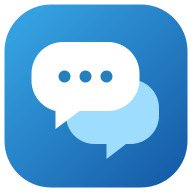
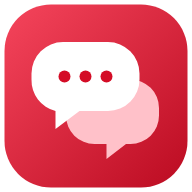
Adopt Rocket.Chat design language with message reactions

diff --git a/public/app.js b/public/app.js
@@ -1,4 +1,4 @@
-import {createRoleUI,providerLabel,renderRoleJob} from './roles-ui.js?v=workspace-15';
+import {createRoleUI,providerLabel,renderRoleJob} from './roles-ui.js?v=workspace-28';
 const $=id=>document.getElementById(id);let me,room=null,rooms=[],pending=null,pendingSticker=null,controller,seen=new Set();
 const compactComposer=matchMedia('(max-width:600px)');
 const themeMode = $('themeMode');
@@ -448,6 +448,77 @@ function messageName(message) {
   return message.roleReply?.roleName || message.roleSender?.roleName || message.sender;
 }
 
+const REACTION_EMOJIS = ['👍','👎','❤','😂','😮','😢','🎉','🚀','👀','🔥','✅','❌','🙏','💯','🤔','😅','🫡','💪','☕','⚡'];
+const reactionPicker = el('dialog', 'reaction-picker');
+reactionPicker.setAttribute('aria-label', '选择回应表情');
+document.body.append(reactionPicker);
+reactionPicker.addEventListener('click', event => {
+  if (event.target === reactionPicker) reactionPicker.close();
+});
+
+function reactionChip(group, message) {
+  const mine = group.members.includes(me.id);
+  const chip = el('button', 'reaction-chip' + (mine ? ' mine' : ''));
+  chip.type = 'button';
+  chip.setAttribute('aria-label', (mine ? '取消回应 ' : '回应 ') + group.emoji + '，已有 ' + group.count + ' 人');
+  chip.append(el('span', 'reaction-emoji', group.emoji), el('span', 'reaction-count', String(group.count)));
+  chip.onclick = () => toggleReaction(message, group.emoji);
+  return chip;
+}
+
+function renderReactions(row, message) {
+  let holder = row.querySelector('.reactions-row');
+  const groups = message.reactions || [];
+  if (!groups.length) {
+    holder?.remove();
+    return;
+  }
+  if (!holder) {
+    holder = el('div', 'reactions-row');
+    row.querySelector('.message-content').append(holder);
+  }
+  holder.replaceChildren(...groups.map(group => reactionChip(group, message)));
+}
+
+function refreshReactions(messageId, reactions) {
+  const row = $('messages').querySelector('[data-message-id="' + Number(messageId) + '"]');
+  if (!row) return;
+  const remembered = quoteMessages.get(Number(messageId));
+  if (remembered) remembered.reactions = reactions;
+  renderReactions(row, {id:messageId, reactions});
+}
+
+async function toggleReaction(message, emoji) {
+  try {
+    const result = await post('/api/messages/' + message.id + '/reactions', {emoji});
+    refreshReactions(message.id, result.reactions);
+  } catch (error) {
+    $('notice').textContent = error.message;
+  }
+}
+
+function openReactionPicker(message, anchor) {
+  reactionPicker.replaceChildren(...REACTION_EMOJIS.map(emoji => {
+    const button = el('button', 'reaction-choice', emoji);
+    button.type = 'button';
+    button.setAttribute('aria-label', '回应 ' + emoji);
+    button.onclick = () => {
+      reactionPicker.close();
+      toggleReaction(message, emoji);
+    };
+    return button;
+  }));
+  reactionPicker.style.removeProperty('left');
+  reactionPicker.style.removeProperty('top');
+  if (!reactionPicker.open) reactionPicker.showModal();
+  if (!compactComposer.matches && anchor) {
+    const bounds = reactionPicker.getBoundingClientRect();
+    const rect = anchor.getBoundingClientRect();
+    reactionPicker.style.left = Math.max(8, Math.min(rect.left, innerWidth - bounds.width - 8)) + 'px';
+    reactionPicker.style.top = Math.max(8, Math.min(rect.bottom + 6, innerHeight - bounds.height - 8)) + 'px';
+  }
+}
+
 async function copyMessage(text) {
   if (navigator.clipboard && window.isSecureContext) {
     await navigator.clipboard.writeText(text);
@@ -468,6 +539,18 @@ function showMessageMenu(message, position) {
     el('p', '', message.text || message.assetName || message.fileName || '消息'));
   messageMenu.replaceChildren(heading);
   messageMenu.setAttribute('aria-label', '消息操作');
+  const quickReactions = el('div', 'message-menu-reactions');
+  for (const emoji of REACTION_EMOJIS.slice(0, 10)) {
+    const button = el('button', 'reaction-choice', emoji);
+    button.type = 'button';
+    button.setAttribute('aria-label', '回应 ' + emoji);
+    button.onclick = () => {
+      messageMenu.close();
+      toggleReaction(message, emoji);
+    };
+    quickReactions.append(button);
+  }
+  messageMenu.append(quickReactions);
   const actions = [
     ['引用', '“', () => chooseReply(message)],
     ...(message.text ? [
@@ -882,6 +965,7 @@ function appendMessage(message, updateTasks = true) {
   content.append(meta, bubble);
   appendQuote(content, message);
   row.append(messageAvatar(message, speaker), content);
+  renderReactions(row, message);
   renderAuditStatus(row, message.id, message.routeStatus);
   row.dataset.messageId = message.id;
   row.dataset.searchText = [message.text, message.fileName, speaker?.roleName, message.sender].filter(Boolean).join(' ').toLocaleLowerCase();
@@ -899,8 +983,54 @@ function appendMessage(message, updateTasks = true) {
     content.append(status);
   }
   groupMessage(row, message, speaker);
+  appendDayDivider(message);
+  addMessageTools(row, message);
   $('messages').append(row);
   if (updateTasks && jobs.length) renderTaskSummary();
+}
+
+let lastRenderedDay = null;
+function dayLabel(date) {
+  const now = new Date();
+  const today = now.toDateString() === date.toDateString();
+  const yesterday = new Date(now.getFullYear(), now.getMonth(), now.getDate() - 1).toDateString() === date.toDateString();
+  if (today) return '今天';
+  if (yesterday) return '昨天';
+  return date.toLocaleDateString('zh-CN', {month: 'long', day: 'numeric', year: date.getFullYear() === now.getFullYear() ? undefined : 'numeric'});
+}
+function appendDayDivider(message) {
+  const date = new Date(message.created);
+  const key = date.toDateString();
+  if (lastRenderedDay !== key) {
+    lastRenderedDay = key;
+    $('messages').append(el('div', 'day', dayLabel(date)));
+  }
+}
+
+function addMessageTools(row, message) {
+  const tools = el('div', 'message-tools');
+  tools.setAttribute('role', 'toolbar');
+  tools.setAttribute('aria-label', '消息操作');
+  const react = el('button', '', '☺');
+  react.type = 'button';
+  react.title = '添加回应';
+  react.setAttribute('aria-label', '添加回应');
+  react.onclick = event => openReactionPicker(message, event.currentTarget);
+  const reply = el('button', '', '↩');
+  reply.type = 'button';
+  reply.title = '引用回复';
+  reply.setAttribute('aria-label', '引用回复');
+  reply.onclick = () => chooseReply(message);
+  const more = el('button', '', '⋯');
+  more.type = 'button';
+  more.title = '更多操作';
+  more.setAttribute('aria-label', '更多操作');
+  more.onclick = event => {
+    const rect = event.currentTarget.getBoundingClientRect();
+    showMessageMenu(message, {x:rect.left, y:rect.bottom + 6});
+  };
+  tools.append(react, reply, more);
+  row.append(tools);
 }
 let selection = 0;
 async function selectRoom(id) {
@@ -938,6 +1068,7 @@ async function selectRoom(id) {
     clearBlobs();
     seen = new Set();
     $('messages').replaceChildren(el('div', 'empty', id ? '还没有消息，打个招呼吧' : '请先创建群聊'));
+    lastRenderedDay = null;
     data.forEach(message => appendMessage(message, false));
     renderTaskSummary();
     scrollLatest();
@@ -952,7 +1083,7 @@ function renderEfforts(){const role=availableRoles.find(r=>r.id===$('roomRoleSel
 async function refreshRoomRoles(){if(!room){$('roomRoleCount').textContent='0';$('roomRoles').replaceChildren(el('p','member-empty','请选择群聊'));$('roomRoleSelect').replaceChildren();$('addRoomRole').disabled=true;return;}const target=room;const [all,joined,caps]=await Promise.all([get('/api/roles'),get('/api/rooms/'+encodeURIComponent(target)+'/roles'),get('/api/role-capabilities')]);if(room!==target)return;availableRoles=all;roomRoles=joined;capabilities=caps;const select=$('roomRoleSelect'),previous=select.value;select.replaceChildren();for(const r of all){const option=el('option','',r.name+' · '+providerLabel(r.provider)+' · '+r.id.slice(-6));option.value=r.id;select.append(option);}if(all.some(r=>r.id===previous))select.value=previous;renderEfforts();$('addRoomRole').disabled=!all.length;$('memberPanelRoom').textContent=$('roomTitle').textContent;$('roomRoleCount').textContent=joined.length;$('roomRoles').replaceChildren();if(!joined.length)$('roomRoles').append(el('p','member-empty','本群还没有角色'));for(const r of joined){const row=el('div','member'),label=el('div','member-label');label.append(el('span','',r.name),el('small','',providerLabel(r.provider)+' · '+(r.effort==='default'?'宿主默认':r.effort)));const remove=el('button','','移出');remove.type='button';remove.onclick=async()=>{try{await api('/api/rooms/'+encodeURIComponent(target)+'/roles/'+encodeURIComponent(r.id),{method:'DELETE'});await Promise.all([refreshRoomRoles(),roleUI.refresh()]);}catch(e){$('notice').textContent=e.message;}};remove.className='remove-room-role';const avatarId='role:'+r.id;row.append(memberAvatar(avatarId,r.name,true),label,avatarEditButton(avatarId,r.name),remove);$('roomRoles').append(row);}}
 $('roomRoleSelect').onchange=renderEfforts;
 $('addRoomRole').onclick=async()=>{if(!room||!$('roomRoleSelect').value)return;try{await post('/api/rooms/'+encodeURIComponent(room)+'/roles',{roleId:$('roomRoleSelect').value,effort:$('roomEffort').value});await Promise.all([refreshRoomRoles(),roleUI.refresh()]);}catch(e){$('notice').textContent=e.message;}};
-async function connect(){controller?.abort();controller=new AbortController();const signal=controller.signal;while(!signal.aborted){try{const r=await api('/api/events',{signal});$('connection').textContent='实时连接';$('connection').dataset.state='connected';const reader=r.body.getReader(),decoder=new TextDecoder();let buffer='';while(true){const {value,done}=await reader.read();if(done)break;buffer+=decoder.decode(value,{stream:true});let idx;while((idx=buffer.indexOf('\n\n'))>=0){const part=buffer.slice(0,idx);buffer=buffer.slice(idx+2);if(!part.startsWith('data: '))continue;const e=JSON.parse(part.slice(6));if(e.type==='role-avatar')setRoleAvatar(e.roleId,e.avatar);if(e.type==='rooms'){await reloadRooms();if(room&&!rooms.some(entry=>entry.id===room))await selectRoom(rooms[0]?.id||null);}if(e.type==='members'){me=await get('/api/me');$('myName').textContent=me.name;await refreshMembers();if(room)await selectRoom(room);}if(e.type==='roles'||e.type==='room-roles'&&e.room===room){await roleUI.refresh();if(!$('memberPanel').hidden)await refreshRoomRoles();}if(e.type==='role-sources'&&!$('memberPanel').hidden)await refreshRoomRoles();if(e.type==='role-job'){recordActiveRole(e.job);const row=$('messages').querySelector('[data-message-id="'+Number(e.job.sourceMessage??e.job.message)+'"]');if(row){let node=row.querySelector('[data-role-job-id="'+Number(e.job.message)+'"]');if(!node){node=el('div','role-status');node.dataset.roleJobId=e.job.message;row.querySelector('.message-content').append(node);row.dataset.roleJobCount=String(Number(row.dataset.roleJobCount||0)+1);}renderMessageJob(node,e.job);renderTaskSummary();}}if(e.type==='audit-status'&&e.room===room){const row=$('messages').querySelector('[data-message-id="'+Number(e.messageId)+'"]');if(row)renderAuditStatus(row,e.messageId,e.routeStatus);}if(e.type==='receipt'){const node=$('messages').querySelector('[data-message-id="'+Number(e.messageId)+'"] .receipts');if(node)renderReceipts(node,e.receipts);}if(e.type==='message'&&e.message.room===room){const follow=isNearLatest();appendMessage(e.message);if(follow)scrollLatest();else updateJumpLatest();if(!$('messageSearch').hidden&&$('messageQuery').value.trim())updateMessageSearch();}}}}catch(e){if(signal.aborted)return;}if(signal.aborted)return;$('connection').textContent='正在重连';delete $('connection').dataset.state;await new Promise(r=>setTimeout(r,2500));if(!signal.aborted){await roleUI.refresh().catch(()=>{});await loadRoleAvatars().catch(()=>{});await selectRoom(room);}}}
+async function connect(){controller?.abort();controller=new AbortController();const signal=controller.signal;while(!signal.aborted){try{const r=await api('/api/events',{signal});$('connection').textContent='实时连接';$('connection').dataset.state='connected';const reader=r.body.getReader(),decoder=new TextDecoder();let buffer='';while(true){const {value,done}=await reader.read();if(done)break;buffer+=decoder.decode(value,{stream:true});let idx;while((idx=buffer.indexOf('\n\n'))>=0){const part=buffer.slice(0,idx);buffer=buffer.slice(idx+2);if(!part.startsWith('data: '))continue;const e=JSON.parse(part.slice(6));if(e.type==='role-avatar')setRoleAvatar(e.roleId,e.avatar);if(e.type==='rooms'){await reloadRooms();if(room&&!rooms.some(entry=>entry.id===room))await selectRoom(rooms[0]?.id||null);}if(e.type==='members'){me=await get('/api/me');$('myName').textContent=me.name;await refreshMembers();if(room)await selectRoom(room);}if(e.type==='roles'||e.type==='room-roles'&&e.room===room){await roleUI.refresh();if(!$('memberPanel').hidden)await refreshRoomRoles();}if(e.type==='role-sources'&&!$('memberPanel').hidden)await refreshRoomRoles();if(e.type==='role-job'){recordActiveRole(e.job);const row=$('messages').querySelector('[data-message-id="'+Number(e.job.sourceMessage??e.job.message)+'"]');if(row){let node=row.querySelector('[data-role-job-id="'+Number(e.job.message)+'"]');if(!node){node=el('div','role-status');node.dataset.roleJobId=e.job.message;row.querySelector('.message-content').append(node);row.dataset.roleJobCount=String(Number(row.dataset.roleJobCount||0)+1);}renderMessageJob(node,e.job);renderTaskSummary();}}if(e.type==='audit-status'&&e.room===room){const row=$('messages').querySelector('[data-message-id="'+Number(e.messageId)+'"]');if(row)renderAuditStatus(row,e.messageId,e.routeStatus);}if(e.type==='reactions'&&e.room===room){refreshReactions(e.message,e.reactions);}if(e.type==='receipt'){const node=$('messages').querySelector('[data-message-id="'+Number(e.messageId)+'"] .receipts');if(node)renderReceipts(node,e.receipts);}if(e.type==='message'&&e.message.room===room){const follow=isNearLatest();appendMessage(e.message);if(follow)scrollLatest();else updateJumpLatest();if(!$('messageSearch').hidden&&$('messageQuery').value.trim())updateMessageSearch();}}}}catch(e){if(signal.aborted)return;}if(signal.aborted)return;$('connection').textContent='正在重连';delete $('connection').dataset.state;await new Promise(r=>setTimeout(r,2500));if(!signal.aborted){await roleUI.refresh().catch(()=>{});await loadRoleAvatars().catch(()=>{});await selectRoom(room);}}}
 async function login(){try{me=await get('/api/me');$('login').hidden=true;$('workspace').hidden=false;$('myName').textContent=me.name;await reloadRooms();await loadRoleAvatars();await selectRoom(rooms[0]?.id||null);$('manageAuditors').hidden=me.kind!=='human';await refreshMembers();connect();}catch(e){$('loginError').textContent=e.message;}}
 $('editName').onclick=()=>{$('newUserName').value=me.name;$('nameDialog').showModal();};$('nameDialog').onclose=async()=>{if($('nameDialog').returnValue!=='save')return;try{me=await(await api('/api/me',{method:'PATCH',headers:{'Content-Type':'application/json'},body:JSON.stringify({name:$('newUserName').value})})).json();$('myName').textContent=me.name;}catch(e){$('notice').textContent=e.message;}};
 const messageList = $('messages');
@@ -1266,6 +1397,22 @@ $('previewMarkdownDraft').onclick=()=>{
   setComposerOptions(false);
   showContent('Markdown 预览',text,'markdown');
 };
+function wrapDraft(before, after = before, placeholder = '') {
+  const start = composerDraft.selectionStart, end = composerDraft.selectionEnd;
+  const selected = composerDraft.value.slice(start, end);
+  const inner = selected || placeholder;
+  composerDraft.setRangeText(before + inner + after, start, end, 'preserve');
+  const innerStart = start + before.length;
+  if (selected) composerDraft.setSelectionRange(innerStart, innerStart + inner.length);
+  else composerDraft.setSelectionRange(innerStart + inner.length, innerStart + inner.length);
+  composerDraft.focus();
+  composerDraft.dispatchEvent(new Event('input', {bubbles:true}));
+}
+$('mdBold').onclick=()=>wrapDraft('**','**','粗体');
+$('mdItalic').onclick=()=>wrapDraft('*','*','斜体');
+$('mdStrike').onclick=()=>wrapDraft('~~','~~','删除线');
+$('mdInlineCode').onclick=()=>wrapDraft('`','`','code');
+$('mdCodeBlock').onclick=()=>wrapDraft('\n```\n','\n```\n','代码块');
 $('clearMobileDraft').onclick=()=>{$('clearDraft').click();setComposerOptions(false);};
 optionsButton.onclick=()=>setComposerOptions(optionsButton.getAttribute('aria-expanded')!=='true');
 composerDraft.addEventListener('input',sizeComposerDraft);

diff --git a/public/style.css b/public/style.css
@@ -241,37 +241,42 @@ input:focus-visible, textarea:focus-visible, button:focus-visible, a:focus-visib
   .avatar-options { grid-template-columns: repeat(4, minmax(0, 1fr)); }
 }
 
-/* Collaboration console */
+/* Collaboration console — Rocket.Chat design tokens (fuselage-tokens) */
 :root {
   --brand-red: #f5455c;
   --sidebar: #f7f8fa;
-  --canvas: #f5f6f8;
+  --canvas: #ffffff;
   --paper: #ffffff;
-  --line: #dfe3e8;
+  --line: #ebecef;
   --ink: #2f343d;
-  --muted: #59606b;
-  --accent: #ae2241;
-  --accent-soft: #feecef;
-  --send-bg: #b92746;
-  --send-hover: #9e1836;
-  --self-surface: #fff0f2;
-  --status-good: #197457;
-  --status-error: #ad2541;
+  --muted: #6c737a;
+  --accent: #156ff5;
+  --accent-soft: #e8f2ff;
+  --send-bg: #156ff5;
+  --send-hover: #095ad2;
+  --self-surface: #f2f3f5;
+  --status-good: #148660;
+  --status-error: #d40c26;
+  --hover: #f2f3f5;
+  --selected: #d7dbe0;
 }
 :root[data-theme="dark"] {
-  --sidebar: #262a32;
+  --brand-red: #f5455c;
+  --sidebar: #2f343d;
   --canvas: #1f2329;
-  --paper: #2f343d;
-  --line: #444b57;
-  --ink: #f7f8fa;
-  --muted: #b7bdc7;
-  --accent: #ff9aab;
-  --accent-soft: #49323d;
-  --send-bg: #b92746;
-  --send-hover: #98213a;
-  --self-surface: #43323b;
-  --status-good: #8cd9bf;
-  --status-error: #ff9aab;
+  --paper: #262931;
+  --line: #333842;
+  --ink: #c1c7d0;
+  --muted: #9ea2a8;
+  --accent: #549df9;
+  --accent-soft: #1c3a63;
+  --send-bg: #156ff5;
+  --send-hover: #095ad2;
+  --self-surface: #2d3039;
+  --status-good: #2de0a5;
+  --status-error: #f98f9d;
+  --hover: #1a1e23;
+  --selected: #4c5362;
 }
 #workspace, .chat-header, .composer, .message-search { background: var(--paper); }
 #workspace { position: relative; }
@@ -830,3 +835,80 @@ input:focus-visible, textarea:focus-visible, button:focus-visible, a:focus-visib
 .bubble .message-markdown h1,.bubble .message-markdown h2,.bubble .message-markdown h3 {font-size:1.15em}
 .bubble.contains-inline-media .message-markdown:has(> p:only-child),
 .bubble.contains-inline-media .message-markdown > p:only-child {display:inline}
+
+/* ===== Rocket.Chat alignment layer ===== */
+body { font-family: Inter, -apple-system, BlinkMacSystemFont, 'Segoe UI', Roboto, 'Helvetica Neue', 'Microsoft YaHei', sans-serif; }
+.brand { background: var(--brand-red); }
+
+/* Sidebar channels */
+#workspace .room { border-radius: 4px; }
+#workspace .room:hover { background: var(--hover); color: var(--ink); }
+#workspace .room.active { background: var(--selected); color: var(--ink); border-color: transparent; }
+#workspace .room.active strong { font-weight: 700; }
+#workspace .room .avatar { border-radius: 4px; color: var(--muted); background: var(--paper); }
+.workspace-brand { border-bottom: 1px solid var(--line); }
+.sidebar footer { border-top: 1px solid var(--line); }
+
+/* Header ghost buttons */
+.chat-header { border-bottom: 1px solid var(--line); }
+.chat-header button { border-color: transparent; color: var(--muted); }
+.chat-header button:hover, .chat-header button[aria-expanded="true"] { background: var(--hover); color: var(--ink); }
+
+/* Flat Rocket-style messages */
+#messages { background: var(--paper); }
+.message { position: relative; }
+.message .avatar, .member-list .avatar { border-radius: 4px; }
+.meta > span:first-child { font-weight: 700; }
+.meta time { font-size: 11px; }
+#messages .bubble { background: transparent; border: 0; box-shadow: none; padding: 0 14px 2px 0; }
+#messages .self .bubble { background: var(--self-surface); border: 0; border-radius: 8px; padding: 8px 12px; }
+.attachment, .text-card { border-radius: 6px; }
+#jumpLatest { background: var(--paper); color: var(--accent); }
+.message-search input { background: var(--hover); border: 0; }
+
+/* Hover toolbar per message */
+.message-tools { position: absolute; top: -14px; right: 4px; z-index: 2; display: none; gap: 2px; padding: 3px; background: var(--paper); border: 1px solid var(--line); border-radius: 8px; box-shadow: 0 2px 10px #1f232926; }
+.message:hover .message-tools, .message:focus-within .message-tools { display: flex; }
+.message-tools button { width: 28px; height: 28px; display: grid; place-items: center; border-radius: 6px; color: var(--muted); font-size: 15px; }
+.message-tools button:hover { background: var(--hover); color: var(--ink); }
+@media (pointer: coarse), (max-width: 600px) { .message-tools { display: none !important; } }
+
+/* Day dividers */
+.day { display: flex; align-items: center; gap: 12px; margin: 20px 0 8px; color: var(--muted); font-size: 12px; }
+.day::before, .day::after { content: ''; flex: 1; height: 1px; background: var(--line); }
+
+/* Reactions */
+.reactions-row { display: flex; flex-wrap: wrap; gap: 6px; margin-top: 6px; }
+.reaction-chip { display: inline-flex; align-items: center; gap: 5px; min-height: 26px; padding: 2px 9px; border: 1px solid var(--line); border-radius: 99px; background: var(--paper); color: var(--ink); font-size: 12px; line-height: 1; }
+.reaction-chip .reaction-emoji { font-size: 15px; }
+.reaction-chip:hover { border-color: var(--accent); }
+.reaction-chip.mine { border-color: var(--accent); background: var(--accent-soft); color: var(--accent); }
+.reaction-picker { padding: 10px; display: grid; grid-template-columns: repeat(5, minmax(36px, 1fr)); gap: 4px; border: 1px solid var(--line); border-radius: 8px; background: var(--paper); color: var(--ink); }
+.reaction-picker .reaction-choice { min-height: 38px; border-radius: 6px; font-size: 20px; }
+.reaction-picker .reaction-choice:hover { background: var(--hover); }
+.message-menu-reactions { display: grid; grid-template-columns: repeat(5, minmax(0, 1fr)); gap: 4px; padding: 2px 2px 10px; margin-bottom: 6px; border-bottom: 1px solid var(--line); }
+.message-menu-reactions .reaction-choice { min-height: 36px; border-radius: 6px; font-size: 19px; }
+.message-menu-reactions .reaction-choice:hover { background: var(--accent-soft); }
+
+/* Composer formatting */
+#mdBold, #mdItalic, #mdStrike, #mdInlineCode, #mdCodeBlock { min-width: 34px; min-height: 34px; padding: 4px 7px; border-radius: 4px; color: var(--muted); }
+#mdBold:hover, #mdItalic:hover, #mdStrike:hover, #mdInlineCode:hover, #mdCodeBlock:hover { background: var(--hover); color: var(--ink); }
+.toolbar .composer-icon-button { border-radius: 4px; }
+.composer textarea { border-radius: 4px; background: var(--paper); }
+.search input { border-radius: 4px; }
+#workspace #send { border-radius: 50%; }
+@media (min-width: 601px) {
+  #send { width: 38px; min-width: 38px; height: 38px; padding: 0; display: grid; place-items: center; }
+  #send .send-text { display: none; }
+  #send .send-arrow { display: inline; font-size: 17px; }
+}
+
+/* Review fixes: unify active channel, form controls, auditor section */
+#workspace .room.active .avatar { color: var(--muted); background: var(--paper); }
+select { background: var(--paper); color: var(--ink); border: 1px solid var(--line); border-radius: 4px; padding: 5px 7px; }
+select:focus-visible { outline: 2px solid var(--accent); outline-offset: 1px; }
+.room-auditor { display: grid; gap: 7px; }
+.room-auditor label { display: grid; gap: 4px; }
+.room-auditor select { width: 100%; min-width: 0; }
+.room-auditor button { justify-self: start; }
+.member-list .member + .member { border-color: var(--line); }

diff --git a/public/index.html b/public/index.html
@@ -7,7 +7,7 @@
   <link rel="manifest" href="/manifest.webmanifest">
   <link rel="apple-touch-icon" href="/icon-192.png">
   <link rel="icon" type="image/svg+xml" href="/icon.svg">
-  <link rel="stylesheet" href="/style.css?v=workspace-27">
+  <link rel="stylesheet" href="/style.css?v=workspace-28">
 </head>
 <body>
   <section id="login">
@@ -67,6 +67,11 @@
       <div id="filePreview" hidden></div>
       <section class="composer" aria-label="发送消息">
         <div class="toolbar" id="composerOptions">
+          <button id="mdBold" type="button" title="粗体" aria-label="粗体"><strong>B</strong></button>
+          <button id="mdItalic" type="button" title="斜体" aria-label="斜体"><em>I</em></button>
+          <button id="mdStrike" type="button" title="删除线" aria-label="删除线"><s>S</s></button>
+          <button id="mdInlineCode" type="button" title="行内代码" aria-label="行内代码"><code>&lt;/&gt;</code></button>
+          <button id="mdCodeBlock" type="button" title="代码块" aria-label="代码块"><code>{ }</code></button>
           <button id="pickFile" class="composer-icon-button" type="button" title="上传图片或文件，最大 25 MB" aria-label="上传图片或文件"><span class="composer-icon image-icon" aria-hidden="true"></span></button>
           <label class="composer-icon-button document-switch" title="按文档发送"><input id="asDocument" type="checkbox" aria-label="按文档发送"><span class="composer-icon document-icon" aria-hidden="true"></span></label>
           <button id="previewMarkdownDraft" type="button">预览 Markdown</button>
@@ -193,6 +198,6 @@
     </form>
   </dialog>
   <script src="/markdown-it.min.js"></script>
-  <script src="/app.js?v=workspace-27" type="module"></script>
+  <script src="/app.js?v=workspace-28" type="module"></script>
 </body>
 </html>

diff --git a/README.md b/README.md
@@ -1,6 +1,6 @@
 # 邻聊 LAN Chat
 
-邻聊是面向局域网的用户和 Agent 协作聊天室，支持角色、Markdown 预览、附件和主题切换。
+邻聊是面向局域网的用户和 Agent 协作聊天室，支持角色、Markdown 预览、附件和主题切换。界面布局与配色参照 [Rocket.Chat](https://rocket.chat) 的 [fuselage 设计规范](https://github.com/RocketChat/Rocket.Chat/tree/develop/packages/fuselage-tokens)（MIT License）提取的 token 定制，消息内支持 Markdown、表情回应与悬停快捷操作。
 
 ## Docker
 
